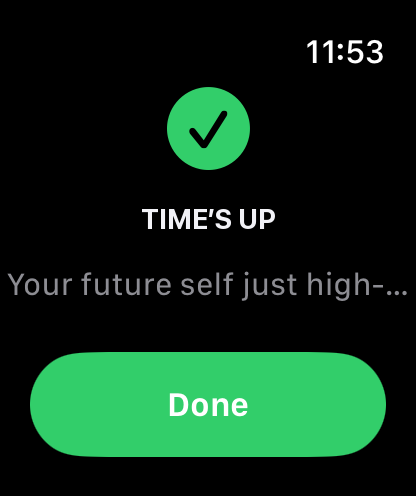
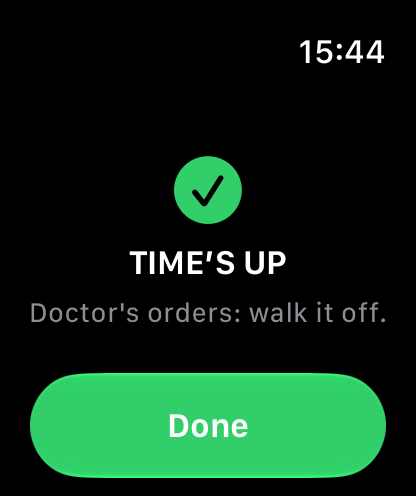
Clean up Apple Watch screens and refresh Watch screenshots (#14)
Redesign the four Watch screens, verify Always On and 40mm layouts, and replace the Watch App Store screenshots with real captures.

Changed region(s): [[0.0, 0.1512, 0.9688, 0.6653], [0.0625, 0.6956, 0.9375, 0.9677], [0.7188, 0.0605, 0.9375, 0.1512]]

diff --git a/Sources/RHOIDSWatch/Features/Timer/WatchTimerView.swift b/Sources/RHOIDSWatch/Features/Timer/WatchTimerView.swift
@@ -12,8 +12,17 @@ import SwiftUI
 /// - W-AC-04: Animations respect Reduce Motion
 struct WatchTimerView: View {
     @Bindable var viewModel: WatchTimerViewModel
-    @Environment(\.isLuminanceReduced) private var isLuminanceReduced
+    @Environment(\.isLuminanceReduced) private var systemLuminanceReduced
     @Environment(\.dismiss) private var dismiss
+
+    private var isLuminanceReduced: Bool {
+#if DEBUG
+        // Screenshot automation: force the Always On look to check that the
+        // layout does not shift when the screen dims.
+        if ProcessInfo.processInfo.environment["RHOIDS_DEMO_AOD"] == "1" { return true }
+#endif
+        return systemLuminanceReduced
+    }
 
     var body: some View {
         Group {
@@ -28,6 +37,21 @@ struct WatchTimerView: View {
             }
         }
         .navigationBarBackButtonHidden(true)
+        .toolbar {
+            // Native bottom bar keeps the button clear of the screen edge.
+            // Hidden in Always On (W-AO-01), but the item stays in place so
+            // the ring does not shift when the screen dims (W-AO-05).
+            ToolbarItem(placement: .bottomBar) {
+                if viewModel.isComplete {
+                    doneButton
+                } else {
+                    stopButton
+                        .opacity(isLuminanceReduced ? 0 : 1)
+                        .allowsHitTesting(!isLuminanceReduced)
+                        .accessibilityHidden(isLuminanceReduced)
+                }
+            }
+        }
         .onChange(of: viewModel.isComplete) { _, complete in
             if complete {
                 // Stay on screen briefly then allow dismiss
@@ -43,7 +67,7 @@ struct WatchTimerView: View {
     // MARK: - Timer Content
 
     private var timerContent: some View {
-        VStack(spacing: 8) {
+        Group {
             if viewModel.isComplete {
                 completionContent
             } else {
@@ -56,9 +80,7 @@ struct WatchTimerView: View {
     // MARK: - Active Timer
 
     private var activeTimerContent: some View {
-        VStack(spacing: 8) {
-            Spacer(minLength: 0)
-
+        VStack(spacing: 4) {
             // Ring + Countdown (W-AO-01: dims in AOD)
             WatchRingView(
                 progress: viewModel.progress,
@@ -72,24 +94,15 @@ struct WatchTimerView: View {
                     .font(.caption)
                     .foregroundStyle(.secondary)
             }
-
-            Spacer(minLength: 0)
-
-            // Stop button - hidden in Always On (W-AO-01)
-            if !isLuminanceReduced {
-                stopButton
-            }
         }
     }
 
     // MARK: - Completion
 
     private var completionContent: some View {
-        VStack(spacing: 12) {
-            Spacer(minLength: 0)
-
+        VStack(spacing: 6) {
             Image(systemName: "checkmark.circle.fill")
-                .font(.system(size: 44))
+                .font(.system(size: 36))
                 .foregroundStyle(.brand)
                 .accessibilityHidden(true)
 
@@ -98,21 +111,23 @@ struct WatchTimerView: View {
                 .accessibilityAddTraits(.isHeader)
 
             Text(viewModel.completionQuip)
-                .font(.caption)
+                .font(.footnote)
                 .foregroundStyle(.secondary)
                 .multilineTextAlignment(.center)
-                .lineLimit(2)
-
-            Spacer(minLength: 0)
-
-            Button(action: { dismiss() }) {
-                Text("Done")
-                    .font(.headline)
-                    .frame(maxWidth: .infinity)
-            }
-            .buttonStyle(.borderedProminent)
-            .tint(.brand)
+                .lineLimit(3)
+                .minimumScaleFactor(0.85)
+                .fixedSize(horizontal: false, vertical: true)
         }
+    }
+
+    private var doneButton: some View {
+        Button(action: { dismiss() }) {
+            Text("Done")
+                .font(.headline)
+                .frame(maxWidth: .infinity)
+        }
+        .buttonStyle(.borderedProminent)
+        .tint(.brand)
     }
 
     // MARK: - Stop Button
@@ -150,7 +165,7 @@ struct WatchRingView: View {
             Circle()
                 .stroke(
                     Color(.darkGray).opacity(isLuminanceReduced ? 0.2 : 0.3),
-                    lineWidth: 8
+                    lineWidth: 7
                 )
 
             // Progress ring - trims from the leading edge so it drains clockwise
@@ -158,7 +173,7 @@ struct WatchRingView: View {
                 .trim(from: progress, to: 1)
                 .stroke(
                     Color.accentColor.opacity(isLuminanceReduced ? 0.3 : 1.0),
-                    style: StrokeStyle(lineWidth: 8, lineCap: .round)
+                    style: StrokeStyle(lineWidth: 7, lineCap: .round)
                 )
                 .rotationEffect(.degrees(-90))
                 .animation(
@@ -171,15 +186,16 @@ struct WatchRingView: View {
                 if endDate > Date() {
                     // End date is in the future - show live countdown
                     Text(timerInterval: Date()...endDate, countsDown: true)
-                        .font(.system(size: 32, weight: .light, design: .rounded))
+                        .font(.system(size: 30, weight: .light, design: .rounded))
                         .monospacedDigit()
+                        .padding(.horizontal, 12)
                         .minimumScaleFactor(0.6)
                         .lineLimit(1)
                         .contentTransition(.numericText())
                 } else {
                     // End date is in the past or invalid - show 0:00
                     Text("0:00")
-                        .font(.system(size: 32, weight: .light, design: .rounded))
+                        .font(.system(size: 30, weight: .light, design: .rounded))
                         .monospacedDigit()
                 }
 
@@ -191,7 +207,8 @@ struct WatchRingView: View {
                 }
             }
         }
-        .frame(width: 130, height: 130)
+        .aspectRatio(1, contentMode: .fit)
+        .containerRelativeFrame(.horizontal) { width, _ in width * 0.5 }
         .accessibilityElement(children: .ignore)
         .accessibilityLabel("Timer progress")
         .accessibilityValue("\(Int((1 - progress) * 100)) percent remaining")

diff --git a/Sources/RHOIDSWatch/Features/Home/WatchHomeView.swift b/Sources/RHOIDSWatch/Features/Home/WatchHomeView.swift
@@ -14,6 +14,9 @@ struct WatchHomeView: View {
     @State private var selectedPreset: PresetTimer = .recommended
     @State private var timerVM: WatchTimerViewModel?
     @State private var showCustomPicker = false
+#if DEBUG
+    @State private var demoLaunched = false
+#endif
 
     @AppStorage(PresetPreferences.defaultPresetKey) private var defaultPresetID = ""
     @AppStorage(UserPreferences.hapticsEnabledKey) private var hapticsEnabled = true
@@ -25,11 +28,8 @@ struct WatchHomeView: View {
     var body: some View {
         NavigationStack {
             ScrollView {
-                VStack(spacing: 10) {
+                VStack(spacing: 8) {
                     heroStartButton
-
-                    Divider()
-                        .padding(.vertical, 4)
 
                     presetList
 
@@ -60,8 +60,20 @@ struct WatchHomeView: View {
 #if DEBUG
             // Screenshot automation: start the selected preset on launch.
             // Enable with SIMCTL_CHILD_RHOIDS_DEMO_TIMER=1 xcrun simctl launch …
-            if ProcessInfo.processInfo.environment["RHOIDS_DEMO_TIMER"] == "1" {
-                startTimer()
+            let env = ProcessInfo.processInfo.environment
+            guard !demoLaunched else { return }
+            demoLaunched = true
+            // Wait for the first frame so the push does not block scene activation.
+            Task { @MainActor in
+                try? await Task.sleep(for: .seconds(2))
+                if let seconds = env["RHOIDS_DEMO_SECONDS"].flatMap(TimeInterval.init) {
+                    // A short run so the Time's Up screen can be captured.
+                    startTimer(duration: seconds)
+                } else if env["RHOIDS_DEMO_TIMER"] == "1" {
+                    startTimer()
+                } else if env["RHOIDS_DEMO_SCREEN"] == "custom" {
+                    showCustomPicker = true
+                }
             }
 #endif
         }
@@ -71,21 +83,20 @@ struct WatchHomeView: View {
 
     private var heroStartButton: some View {
         Button(action: { startTimer() }) {
-            VStack(spacing: 4) {
-                Image(systemName: "play.fill")
-                    .font(.title2)
-
-                Text("START")
+            VStack(spacing: 2) {
+                Label("START", systemImage: "play.fill")
                     .font(.headline)
 
                 if selectedPreset.duration > 0 {
                     Text("\(selectedPreset.name) \u{00B7} \(selectedPreset.formattedDuration)")
                         .font(.caption2)
                         .foregroundStyle(.white.opacity(0.7))
+                        .lineLimit(1)
+                        .minimumScaleFactor(0.8)
                 }
             }
             .frame(maxWidth: .infinity)
-            .padding(.vertical, 12)
+            .padding(.vertical, 8)
         }
         .buttonStyle(.borderedProminent)
         .buttonBorderShape(.roundedRectangle(radius: 14))
@@ -133,8 +144,8 @@ struct WatchHomeView: View {
 
     // MARK: - Actions
 
-    private func startTimer() {
-        let duration = selectedPreset.duration
+    private func startTimer(duration: TimeInterval? = nil) {
+        let duration = duration ?? selectedPreset.duration
         guard duration > 0 else { return }
 
         let endDate = Date().addingTimeInterval(duration)

diff --git a/Sources/RHOIDSWatch/Features/CustomDuration/WatchCustomDurationView.swift b/Sources/RHOIDSWatch/Features/CustomDuration/WatchCustomDurationView.swift
@@ -19,15 +19,9 @@ struct WatchCustomDurationView: View {
     @Environment(\.accessibilityReduceMotion) private var reduceMotion
 
     var body: some View {
-        VStack(spacing: 12) {
-            Spacer(minLength: 0)
-
-            Text("Set Duration")
-                .font(.caption)
-                .foregroundStyle(.secondary)
-
+        VStack(spacing: 4) {
             Text("\(Int(minutes))")
-                .font(.system(size: 52, weight: .light, design: .rounded))
+                .font(.system(size: 56, weight: .light, design: .rounded))
                 .monospacedDigit()
                 .contentTransition(.numericText())
                 .animation(reduceMotion ? nil : .snappy(duration: 0.15), value: Int(minutes))
@@ -35,18 +29,21 @@ struct WatchCustomDurationView: View {
             Text(Int(minutes) == 1 ? "minute" : "minutes")
                 .font(.body)
                 .foregroundStyle(.secondary)
-
-            Spacer(minLength: 0)
-
-            Button(action: { startCustomTimer() }) {
-                Label("Start", systemImage: "play.fill")
-                    .font(.headline)
-                    .frame(maxWidth: .infinity)
+        }
+        .frame(maxWidth: .infinity, maxHeight: .infinity)
+        .navigationTitle("Set Duration")
+        .toolbar {
+            ToolbarItem(placement: .bottomBar) {
+                Button(action: { startCustomTimer() }) {
+                    Label("Start", systemImage: "play.fill")
+                        .font(.headline)
+                        .frame(maxWidth: .infinity)
+                }
+                .buttonStyle(.borderedProminent)
+                .tint(.brand)
+                .accessibilityLabel("Start \(Int(minutes)) minute timer")
+                .accessibilityHint("Double-tap to begin countdown")
             }
-            .buttonStyle(.borderedProminent)
-            .tint(.brand)
-            .accessibilityLabel("Start \(Int(minutes)) minute timer")
-            .accessibilityHint("Double-tap to begin countdown")
         }
         .focused($isCrownFocused)
         .digitalCrownRotation(

diff --git a/Sources/RHOIDSWatch/Features/Timer/WatchTimerViewModel.swift b/Sources/RHOIDSWatch/Features/Timer/WatchTimerViewModel.swift
@@ -77,6 +77,13 @@ final class WatchTimerViewModel {
             case .completed(_, _):
                 isComplete = true
                 completionQuip = TimerQuip.randomCompletion().body
+#if DEBUG
+                // Screenshot automation: pin the quip so captures are repeatable.
+                if let index = ProcessInfo.processInfo.environment["RHOIDS_DEMO_QUIP"].flatMap(Int.init),
+                   TimerQuip.completionQuips.indices.contains(index) {
+                    completionQuip = TimerQuip.completionQuips[index].body
+                }
+#endif
 
             case .cancelled:
                 isCancelled = true
